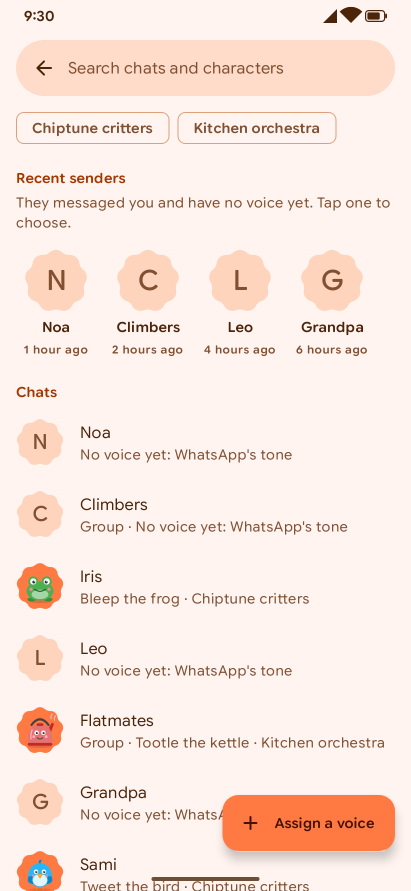
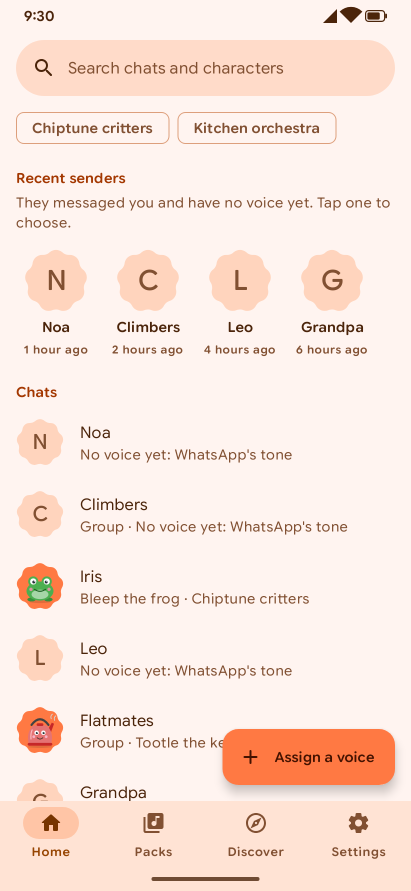
feat(app): demo packs through Discover on first run, shell screenshot goldens
The first-run journey's "Get the demo packs" offers the request (#214) and
switches to the Discover tab; picking a file from Downloads stays as the
offline fallback. Tab roots are captured inside the shell, and
ShellScreenshotTest covers Home's first-run journey (#202 TODO). Creator
gets its entry in the shell; Spanish strings updated.

Changed region(s): [[0.0, 0.8182, 1.0, 1.0], [0.0876, 0.0606, 0.1168, 0.0909]]

diff --git a/android/app/src/testDebug/kotlin/app/mauri/cucuto/screenshots/ShellScreenshotTest.kt b/android/app/src/testDebug/kotlin/app/mauri/cucuto/screenshots/ShellScreenshotTest.kt
@@ -1,0 +1,83 @@
+package app.mauri.cucuto.screenshots
+
+import androidx.compose.foundation.layout.Box
+import androidx.compose.foundation.layout.padding
+import androidx.compose.ui.Modifier
+import androidx.compose.ui.unit.dp
+import app.mauri.cucuto.home.HomeContent
+import app.mauri.cucuto.home.HomeState
+import app.mauri.cucuto.home.JourneyStep
+import app.mauri.cucuto.home.buildHomeState
+import app.mauri.cucuto.navigation.TopLevelTab
+import app.mauri.cucuto.ui.status.ModuleCheck
+import app.mauri.cucuto.ui.status.PacksCheck
+import app.mauri.cucuto.ui.status.ScopeCheck
+import app.mauri.cucuto.ui.status.SelfTestMessage
+import app.mauri.cucuto.ui.status.StatusCard
+import app.mauri.cucuto.ui.status.StatusReport
+import app.mauri.cucuto.ui.status.WhatsAppCheck
+import org.junit.Test
+
+/**
+ * The app shell's first-run journey on Home (#153, ADR 0027): right after onboarding, with the compact setup card and
+ * the offer to import the demo packs; then, with the packs in, the invitation to give the newest sender a voice.
+ */
+class ShellScreenshotTest(
+    variant: Variant,
+) : ScreenshotTest(variant) {
+    @Test
+    fun firstRun() =
+        screenshot("home-first-run") {
+            InShell(TopLevelTab.Home) {
+                HomeContent(
+                    state = HomeState(loading = false),
+                    onQueryChange = {},
+                    onTogglePack = {},
+                    onDismissRecent = {},
+                    onOpenChat = {},
+                    onOpenPacks = {},
+                    journey = JourneyStep.ImportPacks,
+                    setupCard = {
+                        Box(Modifier.padding(horizontal = 16.dp, vertical = 8.dp)) {
+                            StatusCard(FirstRunReport, beat = null, SelfTestMessage.None, onAction = {}, compact = true)
+                        }
+                    },
+                )
+            }
+        }
+
+    @Test
+    fun firstVoice() =
+        screenshot("home-give-first-voice") {
+            val state =
+                buildHomeState(
+                    chats = DemoContent.chats().map { it.copy(voice = null) },
+                    packs = DemoContent.packs.map { it.voicePack() },
+                    query = "",
+                    packFilter = null,
+                    now = System.currentTimeMillis(),
+                )
+            InShell(TopLevelTab.Home) {
+                HomeContent(
+                    state = state,
+                    onQueryChange = {},
+                    onTogglePack = {},
+                    onDismissRecent = {},
+                    onOpenChat = {},
+                    onOpenPacks = {},
+                    journey = state.recent.firstOrNull()?.let(JourneyStep::GiveFirstVoice) ?: JourneyStep.None,
+                )
+            }
+        }
+
+    private companion object {
+        /** Right after the onboarding: WhatsApp found, the module waiting for its self-test, no packs yet. */
+        val FirstRunReport =
+            StatusReport(
+                module = ModuleCheck.AwaitingSelfTest,
+                scope = ScopeCheck.SystemOnly,
+                whatsApp = WhatsAppCheck.Found(listOf("com.whatsapp")),
+                packs = PacksCheck.None,
+            )
+    }
+}

diff --git a/android/app/src/testDebug/kotlin/app/mauri/cucuto/screenshots/SettingsScreenshotTest.kt b/android/app/src/testDebug/kotlin/app/mauri/cucuto/screenshots/SettingsScreenshotTest.kt
@@ -1,6 +1,7 @@
 package app.mauri.cucuto.screenshots
 
 import app.mauri.cucuto.core.data.settings.AutoBackupState
+import app.mauri.cucuto.navigation.TopLevelTab
 import app.mauri.cucuto.ui.settings.SettingsActions
 import app.mauri.cucuto.ui.settings.SettingsContent
 import app.mauri.cucuto.ui.settings.SettingsState
@@ -13,23 +14,27 @@ class SettingsScreenshotTest(
     @Test
     fun settings() =
         screenshot("settings") {
-            SettingsContent(
-                state =
-                    SettingsState(
-                        autoBackup =
-                            AutoBackupState(
-                                folderUri = "content://com.android.externalstorage.documents/tree/primary%3ABackups",
-                                folderName = "Backups",
-                                // 24 October 2026, 9:30 in the screenshots' time zone: a fixed date, same on every run.
-                                lastSuccessAt = LAST_BACKUP_AT,
-                            ),
-                    ),
-                systemRemovesAnimations = false,
-                actions = SettingsActions(),
-            )
+            InShell(TopLevelTab.Settings) {
+                SettingsContent(
+                    state =
+                        SettingsState(
+                            autoBackup =
+                                AutoBackupState(
+                                    folderUri = BACKUP_FOLDER,
+                                    folderName = "Backups",
+                                    lastSuccessAt = LAST_BACKUP_AT,
+                                ),
+                        ),
+                    systemRemovesAnimations = false,
+                    actions = SettingsActions(),
+                )
+            }
         }
 
     private companion object {
+        const val BACKUP_FOLDER = "content://com.android.externalstorage.documents/tree/primary%3ABackups"
+
+        /** 24 October 2026, 9:30 in the screenshots' time zone: a fixed date, same on every run. */
         const val LAST_BACKUP_AT = 1_792_827_000_000L
     }
 }

diff --git a/android/app/src/testDebug/kotlin/app/mauri/cucuto/screenshots/HomeScreenshotTest.kt b/android/app/src/testDebug/kotlin/app/mauri/cucuto/screenshots/HomeScreenshotTest.kt
@@ -2,30 +2,32 @@ package app.mauri.cucuto.screenshots
 
 import app.mauri.cucuto.home.HomeContent
 import app.mauri.cucuto.home.buildHomeState
+import app.mauri.cucuto.navigation.TopLevelTab
 import org.junit.Test
 
-/** Home: the chats with their characters and the recent senders strip waiting for a voice. */
+/** Home, the start tab of the app shell: the chats with their characters and the recent senders strip waiting for a voice. */
 class HomeScreenshotTest(
     variant: Variant,
 ) : ScreenshotTest(variant) {
     @Test
     fun home() =
         screenshot("home", web = "home") {
-            HomeContent(
-                state =
-                    buildHomeState(
-                        chats = DemoContent.chats(),
-                        packs = DemoContent.packs.map { it.voicePack() },
-                        query = "",
-                        packFilter = null,
-                        now = System.currentTimeMillis(),
-                    ),
-                onQueryChange = {},
-                onTogglePack = {},
-                onDismissRecent = {},
-                onOpenChat = {},
-                onOpenPacks = {},
-                onBack = {},
-            )
+            InShell(TopLevelTab.Home) {
+                HomeContent(
+                    state =
+                        buildHomeState(
+                            chats = DemoContent.chats(),
+                            packs = DemoContent.packs.map { it.voicePack() },
+                            query = "",
+                            packFilter = null,
+                            now = System.currentTimeMillis(),
+                        ),
+                    onQueryChange = {},
+                    onTogglePack = {},
+                    onDismissRecent = {},
+                    onOpenChat = {},
+                    onOpenPacks = {},
+                )
+            }
         }
 }

diff --git a/android/app/src/testDebug/kotlin/app/mauri/cucuto/screenshots/InShell.kt b/android/app/src/testDebug/kotlin/app/mauri/cucuto/screenshots/InShell.kt
@@ -1,0 +1,44 @@
+package app.mauri.cucuto.screenshots
+
+import androidx.compose.runtime.Composable
+import androidx.compose.runtime.getValue
+import androidx.compose.runtime.mutableStateListOf
+import androidx.compose.runtime.mutableStateOf
+import androidx.compose.runtime.remember
+import androidx.compose.runtime.rememberUpdatedState
+import androidx.navigation3.runtime.NavKey
+import androidx.navigation3.runtime.entryProvider
+import app.mauri.cucuto.navigation.AppNavigator
+import app.mauri.cucuto.navigation.CucutoDestination
+import app.mauri.cucuto.navigation.CucutoShellLayout
+import app.mauri.cucuto.navigation.TabRootMetadata
+import app.mauri.cucuto.navigation.TopLevelTab
+
+/**
+ * Shows [content] as the root of [tab] inside the app shell (ADR 0027): the adaptive navigation bar with Home, Packs,
+ * Discover and Settings, [tab] selected, as the screen looks in the app.
+ */
+@Composable
+internal fun InShell(
+    tab: TopLevelTab,
+    content: @Composable () -> Unit,
+) {
+    val current by rememberUpdatedState(content)
+    val navigator =
+        remember(tab) {
+            AppNavigator(
+                stacks = TopLevelTab.entries.associateWith { mutableStateListOf<NavKey>(it.root) },
+                selected = mutableStateOf(tab),
+            )
+        }
+    val entries =
+        remember {
+            entryProvider<NavKey> {
+                entry<CucutoDestination.Home>(metadata = TabRootMetadata) { current() }
+                entry<CucutoDestination.Packs>(metadata = TabRootMetadata) { current() }
+                entry<CucutoDestination.Discover>(metadata = TabRootMetadata) { current() }
+                entry<CucutoDestination.Settings>(metadata = TabRootMetadata) { current() }
+            }
+        }
+    CucutoShellLayout(navigator = navigator, entryProvider = entries)
+}

diff --git a/android/app/src/testDebug/kotlin/app/mauri/cucuto/home/HomeContentTest.kt b/android/app/src/testDebug/kotlin/app/mauri/cucuto/home/HomeContentTest.kt
@@ -30,6 +30,7 @@ class HomeContentTest {
     private val details = mutableListOf<ChatKey>()
     private val queries = mutableListOf<String>()
 
+    private var demoRequests = 0
     private var demoImports = 0
 
     private fun show(
@@ -47,6 +48,7 @@ class HomeContentTest {
                     onOpenPacks = {},
                     onOpenDetail = { details += it },
                     journey = journey,
+                    onGetDemoPacks = { demoRequests++ },
                     onImportDemoPacks = { demoImports++ },
                 )
             }
@@ -99,7 +101,10 @@ class HomeContentTest {
         show(HomeState(loading = false), JourneyStep.ImportPacks)
         compose.onNodeWithText("Give your chats a voice").assertIsDisplayed()
         compose.onNodeWithText("No chats yet").assertDoesNotExist()
-        compose.onNodeWithText("Import the demo packs").performClick()
+        compose.onNodeWithText("Get the demo packs").performClick()
+        assertEquals(1, demoRequests)
+        // Offline fallback: a demo packs file already in Downloads.
+        compose.onNodeWithText("Pick a file from Downloads").performClick()
         assertEquals(1, demoImports)
     }
 

diff --git a/android/app/src/testDebug/kotlin/app/mauri/cucuto/screenshots/ScreenshotTest.kt b/android/app/src/testDebug/kotlin/app/mauri/cucuto/screenshots/ScreenshotTest.kt
@@ -50,7 +50,7 @@ import kotlin.math.roundToInt
  * ```kotlin
  * class PacksScreenshotTest(variant: Variant) : ScreenshotTest(variant) {
  *     @Test
- *     fun packs() = screenshot("packs") { PacksContent(state = …, onBack = {}, …) }
+ *     fun packs() = screenshot("packs") { PacksContent(state = …, onDiscover = {}, …) }
  * }
  * ```
  *
@@ -63,8 +63,8 @@ import kotlin.math.roundToInt
  * - `./gradlew :app:exportWebScreenshots` also writes the website's images (the tests with a `web` name) to
  *   `web/src/lib/assets/images/screenshots/`, in English and, once the app is translated, in Spanish (`es/`).
  *
- * Screens still to cover, one subclass each, as soon as they are on `main`:
- * - TODO(#153): the app shell (navigation bar with Home, Packs, Discover and Settings) around Home.
+ * Tab roots (Home, Packs, Settings) are captured inside the app shell with [InShell], so the navigation bar shows;
+ * [ShellScreenshotTest] covers the first-run journey on Home (#153).
  */
 @RunWith(ParameterizedRobolectricTestRunner::class)
 @GraphicsMode(GraphicsMode.Mode.NATIVE)

diff --git a/android/app/src/testDebug/kotlin/app/mauri/cucuto/screenshots/PacksScreenshotTest.kt b/android/app/src/testDebug/kotlin/app/mauri/cucuto/screenshots/PacksScreenshotTest.kt
@@ -1,5 +1,6 @@
 package app.mauri.cucuto.screenshots
 
+import app.mauri.cucuto.navigation.TopLevelTab
 import app.mauri.cucuto.packs.PacksUiState
 import app.mauri.cucuto.packs.ui.PacksContent
 import org.junit.Test
@@ -11,13 +12,15 @@ class PacksScreenshotTest(
     @Test
     fun packs() =
         screenshot("packs", web = "packs") {
-            PacksContent(
-                state = PacksUiState(packs = DemoContent.packs.map { it.libraryPack() }),
-                onBack = {},
-                onDiscover = {},
-                onImport = {},
-                onRemove = {},
-                onConsumeMessage = {},
-            )
+            InShell(TopLevelTab.Packs) {
+                PacksContent(
+                    state = PacksUiState(packs = DemoContent.packs.map { it.libraryPack() }),
+                    onDiscover = {},
+                    onAssignVoices = {},
+                    onImport = {},
+                    onRemove = {},
+                    onConsumeMessage = {},
+                )
+            }
         }
 }

diff --git a/android/app/src/main/kotlin/app/mauri/cucuto/home/JourneyCards.kt b/android/app/src/main/kotlin/app/mauri/cucuto/home/JourneyCards.kt
@@ -250,7 +250,7 @@ private val DOOR_SIZE = 140.dp
 @Composable
 private fun ImportPacksPreview() {
     CucutoTheme(dynamicColor = false) {
-        JourneyCard(JourneyStep.ImportPacks, {}, {}, {}, {})
+        JourneyCard(JourneyStep.ImportPacks, {}, {}, {}, {}, {})
     }
 }
 
@@ -258,7 +258,7 @@ private fun ImportPacksPreview() {
 @Composable
 private fun GiveFirstVoicePreview() {
     CucutoTheme(dynamicColor = false) {
-        JourneyCard(JourneyStep.GiveFirstVoice(previewHomeState().recent.first()), {}, {}, {}, {})
+        JourneyCard(JourneyStep.GiveFirstVoice(previewHomeState().recent.first()), {}, {}, {}, {}, {})
     }
 }
 
@@ -266,6 +266,6 @@ private fun GiveFirstVoicePreview() {
 @Composable
 private fun FirstVoicePreview() {
     CucutoTheme(dynamicColor = false) {
-        JourneyCard(JourneyStep.FirstVoice(previewHomeState().voiced.first()), {}, {}, {}, {})
+        JourneyCard(JourneyStep.FirstVoice(previewHomeState().voiced.first()), {}, {}, {}, {}, {})
     }
 }

diff --git a/android/app/src/testDebug/kotlin/app/mauri/cucuto/i18n/SpanishScreensTest.kt b/android/app/src/testDebug/kotlin/app/mauri/cucuto/i18n/SpanishScreensTest.kt
@@ -72,7 +72,8 @@ class SpanishScreensTest {
     fun homeFirstRunOffersTheDemoPacks() {
         show { HomeUnderTest(HomeState(loading = false), JourneyStep.ImportPacks) }
         compose.onNodeWithText("Dale voz a tus chats").assertIsDisplayed()
-        compose.onNodeWithText("Importar los packs de demostración").assertExists()
+        compose.onNodeWithText("Consigue los packs de demostración").assertExists()
+        compose.onNodeWithText("Elegir un archivo de Descargas").assertExists()
         assertNoClippedText()
     }
 

diff --git a/android/app/src/testDebug/kotlin/app/mauri/cucuto/screenshots/ImportReviewScreenshotTest.kt b/android/app/src/testDebug/kotlin/app/mauri/cucuto/screenshots/ImportReviewScreenshotTest.kt
@@ -25,8 +25,8 @@ class ImportReviewScreenshotTest(
             val imported = DemoContent.kitchen
             PacksContent(
                 state = PacksUiState(packs = listOf(installed.libraryPack())),
-                onBack = {},
                 onDiscover = {},
+                onAssignVoices = {},
                 onImport = {},
                 onRemove = {},
                 onConsumeMessage = {},

diff --git a/docs/decisions/0027-app-shell-and-first-run-journey.md b/docs/decisions/0027-app-shell-and-first-run-journey.md
@@ -67,19 +67,19 @@ share bounds with the Setup screen's card. `setupCardMode` is a pure function.
 
 **First-run journey on Home** (`homeJourney`, pure):
 
-1. no pack: "Give your chats a voice" with **Import the demo packs**;
+1. no pack: "Give your chats a voice" with **Get the demo packs** (and **Pick a file from Downloads**);
 2. packs but no chats: "Your characters are ready" and **Hear the characters** (the preview-only picker);
 3. packs and chats but no voice: "Give Ada a voice", one tap to the picker for the newest recent sender;
 4. the first voice: the cuckoo door pops open on the new character (`Feedback.DoorOpen` with a burst in its colors),
    once (`first_voice_celebrated`), until dismissed. It is shown only while exactly one chat has a voice.
 
-**Demo packs: picked from Downloads, nothing bundled.** "Import the demo packs" opens the system file picker
-(`OpenDocument`, initial location Downloads), and the file goes through `IncomingImports`, the same path as "Open
-with": the shell opens the Packs tab, which reviews and installs it (`Feedback.Success` there). The installed
-snackbar offers **Give voices**, back to Home. No storage permission, no network code, and no pack in any APK; a
-link opens the free packs on the website. Bundling the demo packs in debug builds was rejected: it needs the packer
-in the Android build and still leaves release users with the same picker. Once Discover (#36) lists the default
-repository, the button should install the demo bundle from it in one tap.
+**Demo packs: one tap through Discover, a file as the fallback, nothing bundled.** "Get the demo packs" calls
+`DemoPacksRequests.offer()` and switches to the Discover tab, which installs the demo bundle from the default
+repository through the usual review (#214, ADR 0045). Offline, **Pick a file from Downloads** opens the system file
+picker (`OpenDocument`, initial location Downloads), and the file goes through `IncomingImports`, the same path as
+"Open with": the shell opens the Packs tab, which reviews and installs it (`Feedback.Success` there). The installed
+snackbar offers **Give voices**, back to Home. No storage permission and no pack in any APK. Bundling the demo packs
+in debug builds was rejected: it needs the packer in the Android build and still leaves release users without them.
 
 ## Consequences
 
